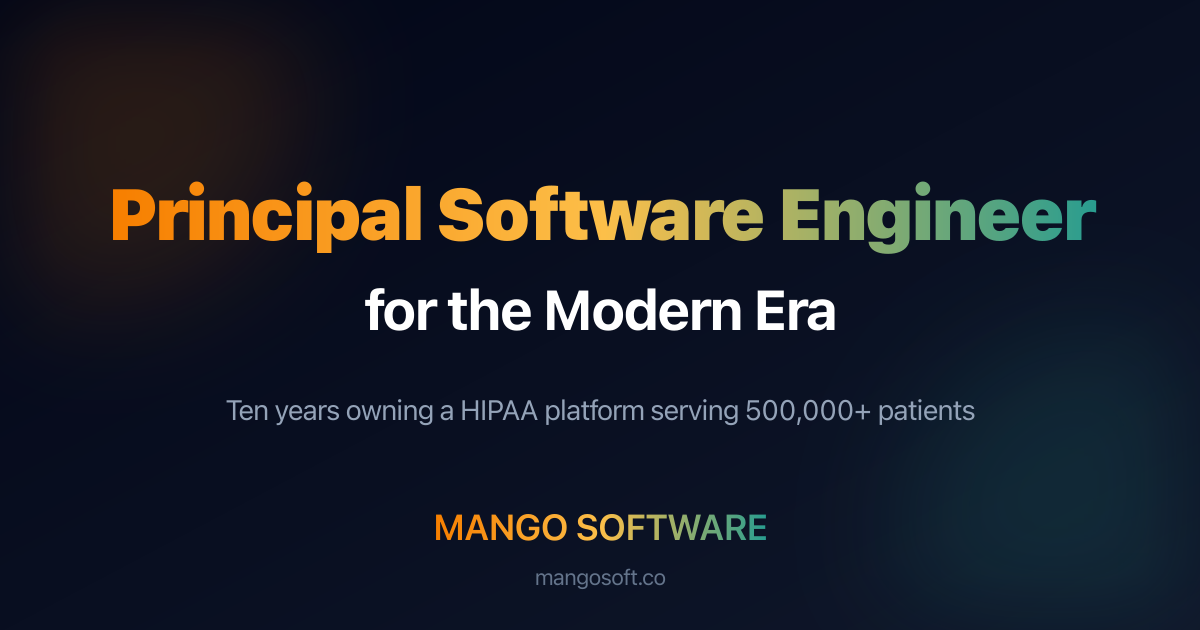
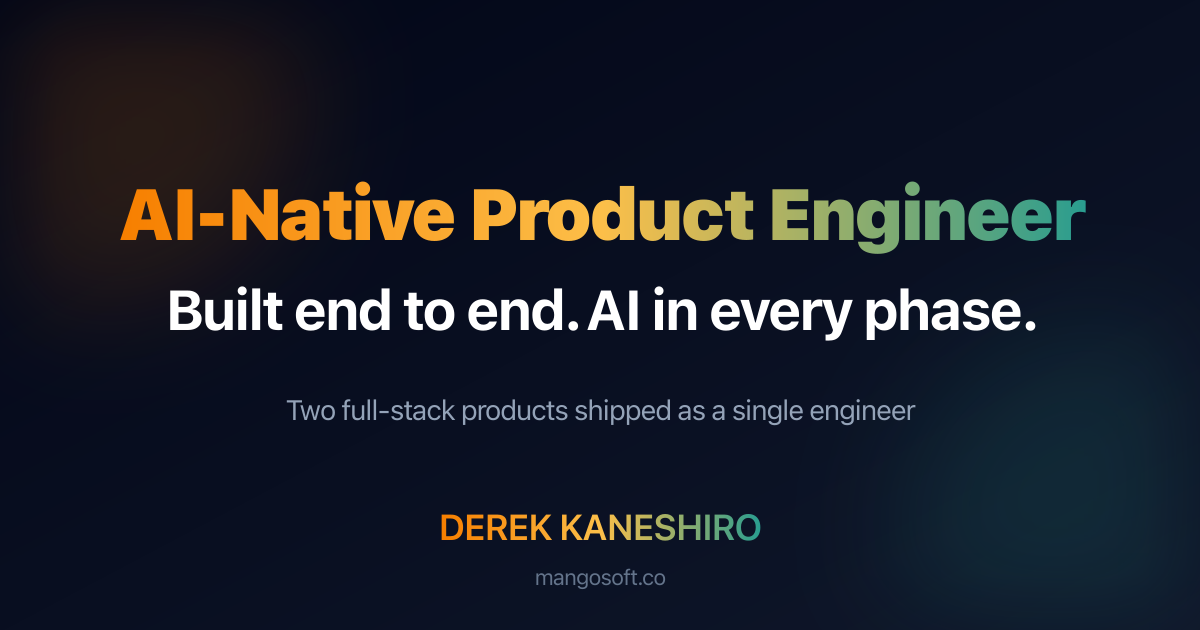
Reposition site as AI-Native Product Engineer to match LinkedIn
Hero, about, portfolio and contact copy now mirror the live LinkedIn
headline, About and project entries: AI-Native Product Engineer, two
full-stack products launched as a single engineer, the open-source eval
framework, ten years on a HIPAA platform.

- BlueSkil marked Live and re-described as a skilled-worker career
  platform (it shipped 2026-10-03); cards reordered to match the banner
- Hero stats follow the headline (2 / 1 / 10 / 500K+); primary CTA now
  points at the shipped work
- Metadata, JSON-LD jobTitle, llms.txt and OG image updated
- Footer LinkedIn link moved to /in/dkanes (old slug no longer resolves)
- Spanish locale mirrored

diff --git a/nuxt.config.ts b/nuxt.config.ts
@@ -38,30 +38,30 @@ export default defineNuxtConfig({
 
   app: {
     head: {
-      title: 'Derek Kaneshiro — Principal Software Engineer',
+      title: 'Derek Kaneshiro — AI-Native Product Engineer',
       htmlAttrs: {
         lang: 'en',
       },
       meta: [
-        { name: 'description', content: 'Principal software engineer. Ten years owning a HIPAA-regulated platform serving 500,000+ patients, and the open-source AI evaluation framework Synthetic Test Fabric.' },
+        { name: 'description', content: 'AI-native product engineer. Two full-stack products launched as a single engineer, an open-source AI evaluation framework on NPM, and ten years on a HIPAA platform serving 500,000+ patients.' },
         { name: 'viewport', content: 'width=device-width, initial-scale=1' },
         { name: 'author', content: 'Derek Kaneshiro' },
         { name: 'robots', content: 'index, follow' },
-        { name: 'keywords', content: 'principal software engineer, C#, .NET, AI agents, LLM evaluation, MCP, HIPAA, TypeScript, Hillsboro Oregon, Portland developer' },
+        { name: 'keywords', content: 'AI-native product engineer, product engineer, principal software engineer, C#, .NET, AI agents, LLM evaluation, MCP, HIPAA, TypeScript, Hillsboro Oregon, Portland developer' },
 
         // Open Graph
         { property: 'og:type', content: 'website' },
         { property: 'og:site_name', content: 'Mango Software' },
-        { property: 'og:title', content: 'Derek Kaneshiro — Principal Software Engineer' },
-        { property: 'og:description', content: 'Principal software engineer. Ten years owning a HIPAA-regulated platform serving 500,000+ patients, and the open-source AI evaluation framework Synthetic Test Fabric.' },
+        { property: 'og:title', content: 'Derek Kaneshiro — AI-Native Product Engineer' },
+        { property: 'og:description', content: 'AI-native product engineer. Two full-stack products launched as a single engineer, an open-source AI evaluation framework on NPM, and ten years on a HIPAA platform serving 500,000+ patients.' },
         { property: 'og:url', content: 'https://mangosoft.co' },
         { property: 'og:image', content: 'https://mangosoft.co/og-image.png' },
         { property: 'og:locale', content: 'en_US' },
 
         // Twitter Card
         { name: 'twitter:card', content: 'summary_large_image' },
-        { name: 'twitter:title', content: 'Derek Kaneshiro — Principal Software Engineer' },
-        { name: 'twitter:description', content: 'Principal software engineer. Ten years owning a HIPAA-regulated platform serving 500,000+ patients, and the open-source AI evaluation framework Synthetic Test Fabric.' },
+        { name: 'twitter:title', content: 'Derek Kaneshiro — AI-Native Product Engineer' },
+        { name: 'twitter:description', content: 'AI-native product engineer. Two full-stack products launched as a single engineer, an open-source AI evaluation framework on NPM, and ten years on a HIPAA platform serving 500,000+ patients.' },
         { name: 'twitter:image', content: 'https://mangosoft.co/og-image.png' },
 
         // Additional SEO
@@ -96,7 +96,7 @@ gtag('config', 'G-Z8K1KDWS00');`,
                 '@type': 'Person',
                 '@id': 'https://mangosoft.co/#person',
                 'name': 'Derek Kaneshiro',
-                'jobTitle': 'Principal Software Engineer',
+                'jobTitle': 'AI-Native Product Engineer',
                 'url': 'https://mangosoft.co',
                 'email': 'derek@mangosoft.co',
                 'address': {

diff --git a/app/components/HeroSection.vue b/app/components/HeroSection.vue
@@ -33,31 +33,31 @@ const { t } = useI18n()
 
         <!-- CTAs -->
         <div class="flex flex-col sm:flex-row gap-4 justify-center">
-          <a href="https://github.com/kaneshir/synthetic-test-fabric" target="_blank" rel="noopener" class="btn-primary">
-            {{ t('hero.cta') }}
-          </a>
-          <a href="#portfolio" class="btn-secondary">
+          <a href="#portfolio" class="btn-primary">
             {{ t('hero.seeWork') }}
+          </a>
+          <a href="https://github.com/kaneshir/synthetic-test-fabric" target="_blank" rel="noopener" class="btn-secondary">
+            {{ t('hero.cta') }}
           </a>
         </div>
 
         <!-- Stats -->
         <div class="mt-10 grid grid-cols-2 md:grid-cols-4 gap-6">
           <div class="text-center">
-            <div class="text-3xl md:text-4xl font-bold gradient-text">10</div>
-            <div class="text-slate-500 dark:text-slate-400 text-sm mt-1">{{ t('hero.stats.shipped') }}</div>
-          </div>
-          <div class="text-center">
-            <div class="text-3xl md:text-4xl font-bold gradient-text">500K+</div>
-            <div class="text-slate-500 dark:text-slate-400 text-sm mt-1">{{ t('hero.stats.patients') }}</div>
-          </div>
-          <div class="text-center">
-            <div class="text-3xl md:text-4xl font-bold gradient-text">200K</div>
-            <div class="text-slate-500 dark:text-slate-400 text-sm mt-1">{{ t('hero.stats.infra') }}</div>
+            <div class="text-3xl md:text-4xl font-bold gradient-text">2</div>
+            <div class="text-slate-500 dark:text-slate-400 text-sm mt-1">{{ t('hero.stats.products') }}</div>
           </div>
           <div class="text-center">
             <div class="text-3xl md:text-4xl font-bold gradient-text">1</div>
             <div class="text-slate-500 dark:text-slate-400 text-sm mt-1">{{ t('hero.stats.oss') }}</div>
+          </div>
+          <div class="text-center">
+            <div class="text-3xl md:text-4xl font-bold gradient-text">10</div>
+            <div class="text-slate-500 dark:text-slate-400 text-sm mt-1">{{ t('hero.stats.years') }}</div>
+          </div>
+          <div class="text-center">
+            <div class="text-3xl md:text-4xl font-bold gradient-text">500K+</div>
+            <div class="text-slate-500 dark:text-slate-400 text-sm mt-1">{{ t('hero.stats.patients') }}</div>
           </div>
         </div>
       </div>

diff --git a/app/components/PortfolioSection.vue b/app/components/PortfolioSection.vue
@@ -3,12 +3,12 @@ const { t } = useI18n()
 
 const projects = computed(() => [
   {
-    title: 'Synthetic Test Fabric',
-    tagline: t('portfolio.stf.tagline'),
-    description: t('portfolio.stf.description'),
-    tech: ['TypeScript', 'MCP', 'Node.js', 'MIT'],
-    status: 'Open source',
-    link: 'https://github.com/kaneshir/synthetic-test-fabric',
+    title: 'BlueSkil',
+    tagline: t('portfolio.blueskil.tagline'),
+    description: t('portfolio.blueskil.description'),
+    tech: ['Flutter', 'NestJS', 'Nuxt', 'Firebase', 'Stripe', 'BigQuery'],
+    status: 'Live',
+    link: 'https://blueskil.com',
   },
   {
     title: 'Redy',
@@ -19,12 +19,12 @@ const projects = computed(() => [
     link: 'https://redy.co',
   },
   {
-    title: 'BlueSkil',
-    tagline: t('portfolio.blueskil.tagline'),
-    description: t('portfolio.blueskil.description'),
-    tech: ['Flutter', 'NestJS', 'Nuxt', 'Firebase', 'Stripe', 'BigQuery'],
-    status: 'In development',
-    link: 'https://blueskil.com',
+    title: 'Synthetic Test Fabric',
+    tagline: t('portfolio.stf.tagline'),
+    description: t('portfolio.stf.description'),
+    tech: ['TypeScript', 'MCP', 'Node.js', 'MIT'],
+    status: 'Open source',
+    link: 'https://github.com/kaneshir/synthetic-test-fabric',
   },
   {
     title: 'Toknize',

diff --git a/app/components/AppFooter.vue b/app/components/AppFooter.vue
@@ -18,7 +18,7 @@ const currentYear = new Date().getFullYear()
         <!-- Links -->
         <div class="flex items-center gap-6">
           <a
-            href="https://www.linkedin.com/in/derek-kaneshiro-a116513a8/"
+            href="https://www.linkedin.com/in/dkanes/"
             target="_blank"
             class="text-slate-500 hover:text-mango-orange dark:text-slate-400 transition-colors duration-200"
           >
